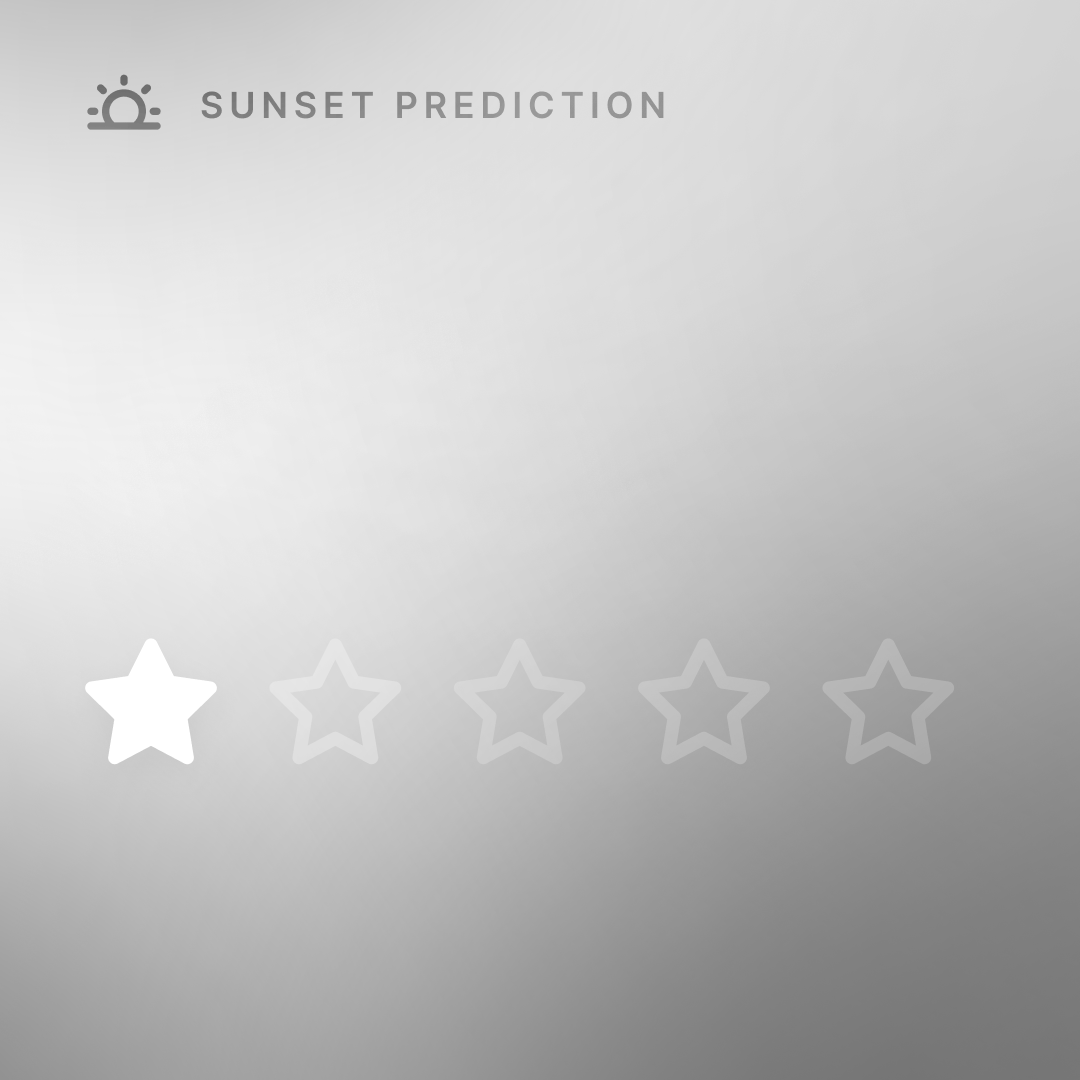
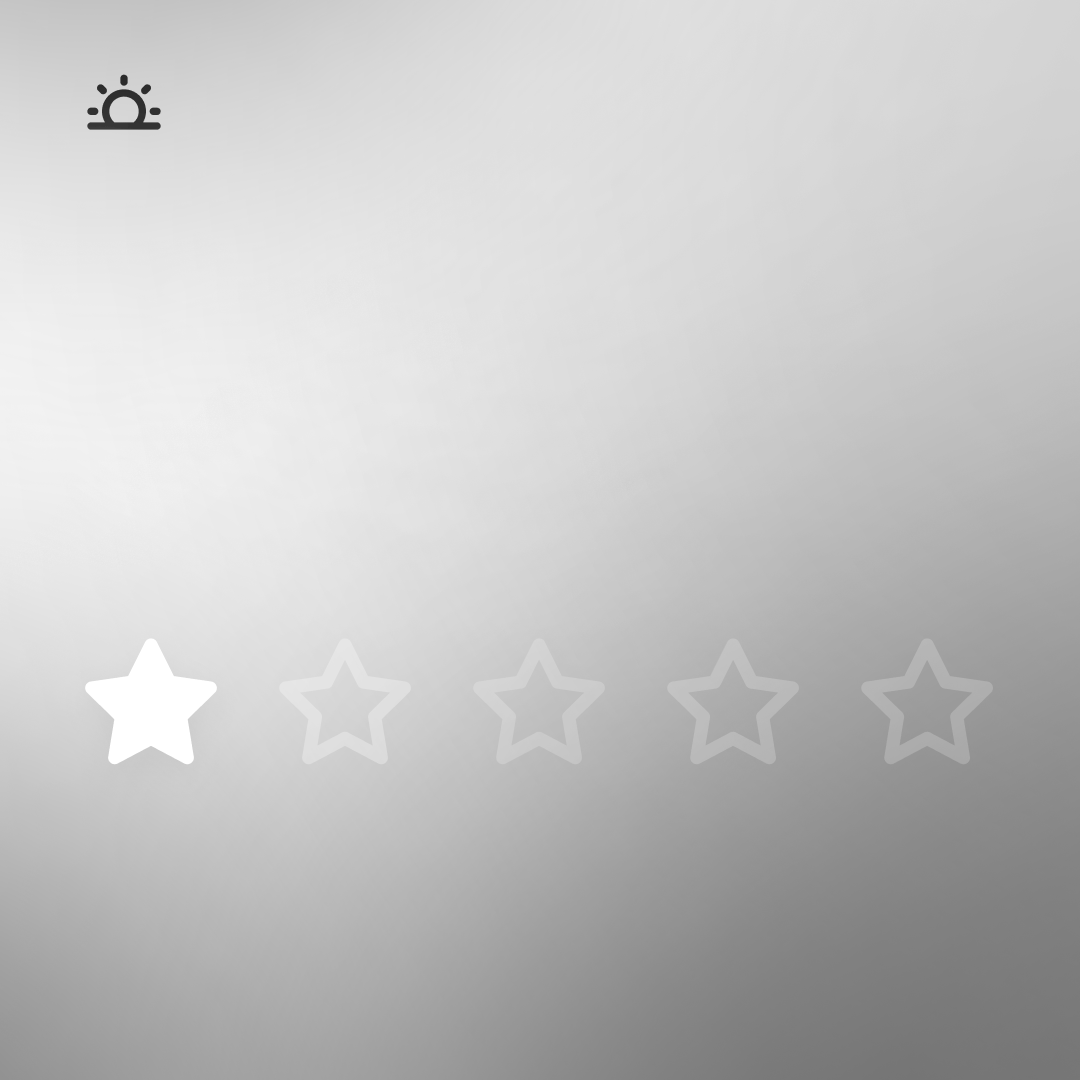
Optimizing images and cleaning up

Changed region(s): [[0.3667, 0.0611, 0.6111, 0.1222], [0.1833, 0.0611, 0.3361, 0.1222], [0.0611, 0.0611, 0.1528, 0.1222]]

diff --git a/model/publish.js b/model/publish.js
@@ -11,57 +11,130 @@ async function loadSourceImages(data) {
     return {
         backgroundImage: await loader(`../publish/resources/instagram/background-${data.rating}.png`)
     }
-};
+}
 
-async function generateImage(sourceImages, data) {
-    let { date, rating, confidence, compositeImageURL } = data;
+function drawText(context, params) {
+    let { scale, position, text, attributes } = params;
 
-    let canvas = document.getElementById('image');
-    let context = canvas.getContext('2d');
+    context.globalCompositeOperation = attributes.blendingMode;
+    context.font = `${attributes.font.weight} ${attributes.font.size * scale}px ${attributes.font.family}`;
+    context.fillStyle = attributes.font.color;
+    context.shadowOffsetX = attributes.shadow.offsetX * scale;
+    context.shadowOffsetY = attributes.shadow.offsetY * scale;
+    context.shadowColor = attributes.shadow.color;
+    context.shadowBlur = attributes.shadow.blur * scale;
 
-    context.clearRect(0, 0, canvas.width, canvas.height);
-
-    let dateParsed = cleanDate(date).dateObject;
-    let dateFormatted = {
-        dayOfWeek: dateParsed.toLocaleDateString('en-US', { weekday: 'long' }),
-        date: dateParsed.toLocaleDateString('en-US', { month: 'long', day: 'numeric' })
-    }
-
-    let text = `${dateFormatted.dayOfWeek}\n${dateFormatted.date}`;
-
-    let scale = 2;
-    
-    context.drawImage(sourceImages.backgroundImage, 0, 0);
-
-    context.font = `bold ${64 * scale}px Inter V`;
-    context.shadowOffsetX = 0 * scale;
-    context.shadowOffsetY = 4 * scale;
-    context.shadowColor = 'rgba(0, 0, 0, 0.15)';
-    context.shadowBlur = 20 * scale;
-    context.fillStyle = 'white';
-
-    let x = 40 * scale;
-    let y = 172 * scale;
-    let lineheight = 78 * scale;
+    let x = position.x * scale;
+    let y = position.y * scale;
+    let lineheight = attributes.font.lineHeight * scale;
     let lines = text.split('\n');
 
     for (let i = 0; i < lines.length; i++) {    
         context.fillText(lines[i], x, y + (i * lineheight));
+        if (params.doubleDraw) { context.fillText(lines[i], x, y + (i * lineheight)); }
     }
-    
-    context.globalCompositeOperation = 'overlay';
-    context.font = `600 ${18 * scale}px Inter V`;
-    context.fillStyle = 'black';
-    
-    x = 40 * scale;
-    y = 506 * scale;
-    
+
+    context.globalCompositeOperation = 'normal';
+}
+
+async function generateImage(sourceImages, dateFormatted, data) {
+    let { rating, confidence, compositeImageURL } = data;
+
+    let canvas = document.getElementById('image');
+    let context = canvas.getContext('2d');
+    let scale = 2;
+
+    context.clearRect(0, 0, canvas.width, canvas.height);
+
+    context.drawImage(sourceImages.backgroundImage, 0, 0);
+
+    drawText(context, {
+        scale,
+        text: `S U N S E T  Q U A L I T Y  P R E D I C T I O N`,
+        doubleDraw: true,
+        position: {
+            x: 100,
+            y: 60
+        },
+        attributes: {
+            blendingMode: 'overlay',
+            font: {
+                family: 'Inter V',
+                weight: '600',
+                size: 18,
+                lineHeight: 0,
+                color: 'black'
+            },
+            shadow: {
+                offsetX: 0,
+                offsetY: 4,
+                blur: 20,
+                color: 'rgba(0, 0, 0, 0.15)'
+            }
+        }
+    });
+
+    drawText(context, {
+        scale,
+        text: `${dateFormatted.dayOfWeek}\n${dateFormatted.date}`,
+        position: {
+            x: 40,
+            y: 180
+        },
+        attributes: {
+            blendingMode: 'normal',
+            font: {
+                family: 'Inter V',
+                weight: 'bold',
+                size: 64,
+                lineHeight: 78,
+                color: 'white'
+            },
+            shadow: {
+                offsetX: 0,
+                offsetY: 4,
+                blur: 20,
+                color: 'rgba(0, 0, 0, 0.15)'
+            }
+        }
+    });
+
     const zeroPad = (num, places) => String(num).padStart(places, '0');
     
     let confidenceWithLeadingZeros = zeroPad(confidence, 2);
-    
-    context.fillText(`${String(confidenceWithLeadingZeros).charAt(0)} ${String(confidenceWithLeadingZeros).charAt(1)} %  C O N F I D E N T`, x, y);
 
+    let doubleDrawConfidenceLabel;
+
+    if (data.rating === 2) {
+        doubleDrawConfidenceLabel = true;
+    }
+
+    drawText(context, {
+        scale,
+        text: `${String(confidenceWithLeadingZeros).charAt(0)} ${String(confidenceWithLeadingZeros).charAt(1)} %  C O N F I D E N T`,
+        doubleDraw: doubleDrawConfidenceLabel,
+        position: {
+            x: 40,
+            y: 504
+        },
+        attributes: {
+            blendingMode: 'overlay',
+            font: {
+                family: 'Inter V',
+                weight: '600',
+                size: 18,
+                lineHeight: 0,
+                color: 'black'
+            },
+            shadow: {
+                offsetX: 0,
+                offsetY: 4,
+                blur: 20,
+                color: 'rgba(0, 0, 0, 0.15)'
+            }
+        }
+    });
+    
     let imageData = canvas.toDataURL();
 
     return imageData;
@@ -93,18 +166,32 @@ async function postToDestination(params) {
     }
 }
 
+function generateCaption(dateFormatted, data) {
+    let caption = `The visual beauty of the sunset on ${dateFormatted.dayOfWeek}, ${dateFormatted.date}, ${dateFormatted.year} is predicted to be ${data.rating} out of 5 stars, with a confidence of ${data.confidence}%.`;
+
+    return caption;
+}
+
 export async function publishPrediction(data) {
     loadSourceImages(data).then(async (sourceImages) =>  {
-        let imageData = await generateImage(sourceImages, data);
+        let dateParsed = cleanDate(data.date).dateObject;
+        let dateFormatted = {
+            dayOfWeek: dateParsed.toLocaleDateString('en-US', { weekday: 'long' }),
+            date: dateParsed.toLocaleDateString('en-US', { month: 'long', day: 'numeric' }),
+            year: dateParsed.toLocaleDateString('en-US', { year: 'numeric' })
+        }
 
-//         await postToDestination({
-//             destination: 'instagram',
-//             data: { 
-//                 imageData,
-//                 caption: 'text'
-//             }
-//         });
-// 
-//         await saveHistory(data);
+        let imageData = await generateImage(sourceImages, dateFormatted, data);
+        let caption = generateCaption(dateFormatted, data);
+
+        await postToDestination({
+            destination: 'instagram',
+            data: { 
+                imageData,
+                caption
+            }
+        });
+
+        await saveHistory(data);
     }).catch(console.error);
 }

diff --git a/model/main.js b/model/main.js
@@ -40,26 +40,26 @@ let trainingDataInputs = [];
 let trainingDataOutputs = [];
 let examplesCount = [];
 
-// await loadMobileNetFeatureModel();
-// 
-// model = tf.sequential();
-// model.add(tf.layers.dense({ inputShape: [1024], units: 128, activation: 'relu' }));
-// model.add(tf.layers.dense({ units: CLASS_NAMES.length, activation: 'softmax' }));
-// model.summary();
-// model.compile({
-//     optimizer: 'adam',
-//     loss: 'categoricalCrossentropy',
-//     metrics: [ 'accuracy' ],
-// });
+await loadMobileNetFeatureModel();
+
+model = tf.sequential();
+model.add(tf.layers.dense({ inputShape: [1024], units: 128, activation: 'relu' }));
+model.add(tf.layers.dense({ units: CLASS_NAMES.length, activation: 'softmax' }));
+model.summary();
+model.compile({
+    optimizer: 'adam',
+    loss: 'categoricalCrossentropy',
+    metrics: [ 'accuracy' ],
+});
 
 if (!TRAINING_PAGE) {
     if (window.location.hash) {
-        // makePrediction();
-        await publishPrediction({
-            date: window.location.hash.split('#')[1],
-            rating: 1,
-            confidence: 99
-        });
+        makePrediction();
+        // await publishPrediction({
+        //     date: window.location.hash.split('#')[1],
+        //     rating: 1,
+        //     confidence: 99
+        // });
     } else {
         updateStatus('No date specified!')
     }

diff --git a/model/predict.html b/model/predict.html
@@ -9,7 +9,7 @@
 	<body>
 		<script type='text/javascript'> let TRAINING_PAGE = false; </script>
         <p id='status'>Loading TensorFlow...</p>
-		<!-- <script src='https://cdn.jsdelivr.net/npm/@tensorflow/tfjs@3.11.0/dist/tf.min.js' type='text/javascript'></script> -->
+		<script src='https://cdn.jsdelivr.net/npm/@tensorflow/tfjs@3.11.0/dist/tf.min.js' type='text/javascript'></script>
 		<script type='module' src='main.js'></script>
 		<canvas id='image' width='1080' height='1080' style='transform: scale(50%); transform-origin: 0 0;'></canvas>
 	</body>
